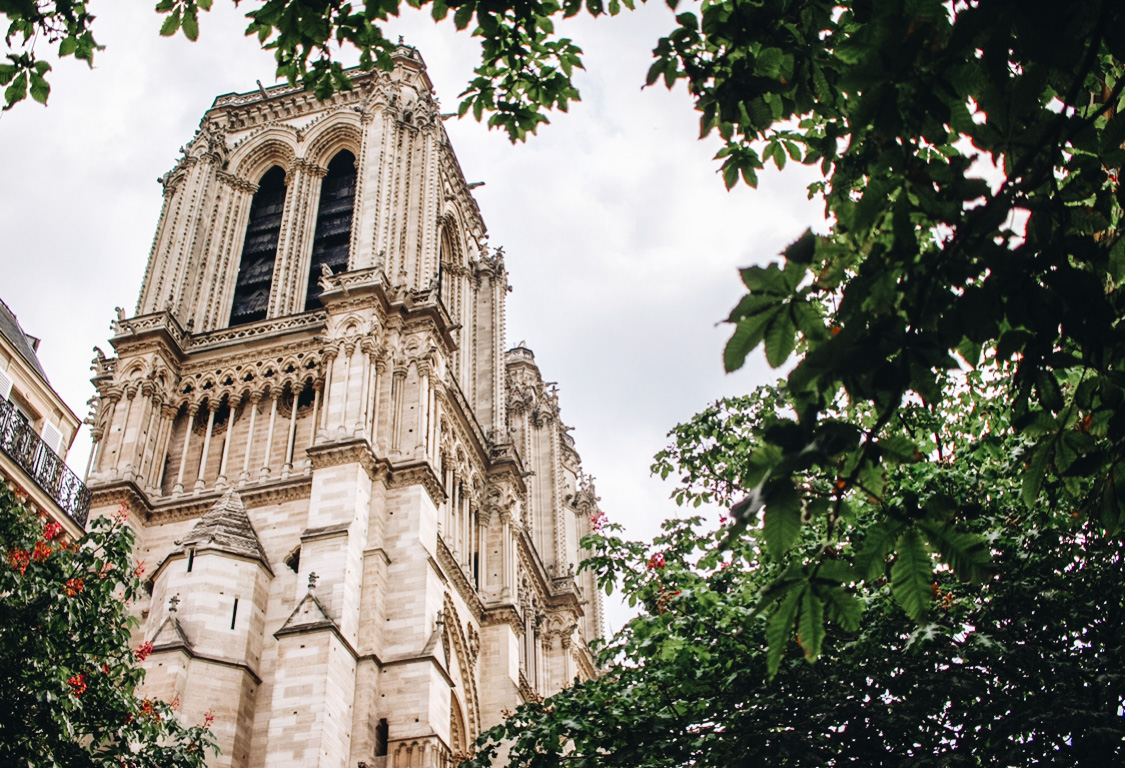
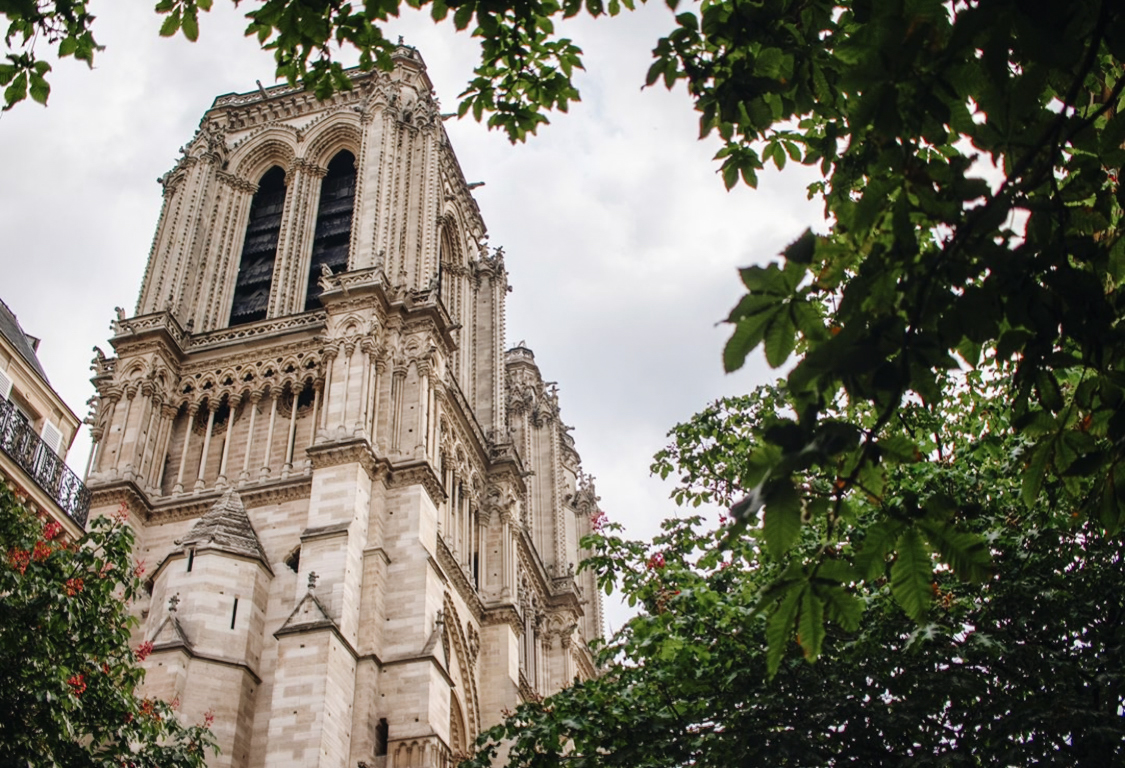
notre dame

diff --git a/communication.html b/communication.html
@@ -587,6 +587,12 @@
             <img src="img/communication/gallery-josie.jpg">
             <div class="gap-small"></div>
           </div>
+
+          <div style="padding-right:0;" class="col-lg-6">
+            <img src="img/communication/gallery-notre.jpg">
+            <div class="gap-small"></div>
+          </div>
+
         </div>
         </div>
 
